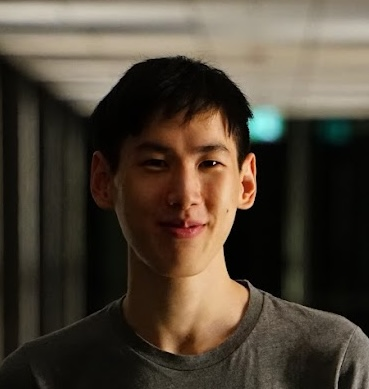
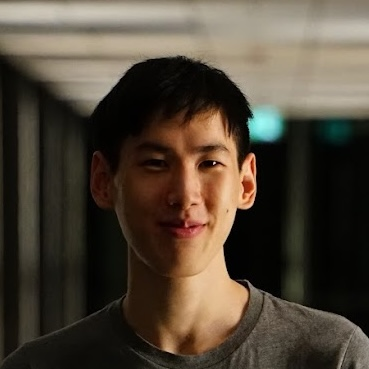
finally fixed the stupid image gap

diff --git a/client/src/pages/Team.tsx b/client/src/pages/Team.tsx
@@ -61,7 +61,7 @@ const Team = () => {
                 <button
                   key={index}
                   onClick={() => setSelectedIndex(index)}
-                  className="group border border-[#FAFAFA]/20 hover:border-[#FAFAFA]/50 transition-colors text-left cursor-pointer overflow-hidden"
+                  className="group flex flex-col  border border-[#FAFAFA]/20 hover:border-[#FAFAFA]/50 transition-colors text-left cursor-pointer overflow-hidden"
                   style={{ background: 'linear-gradient(to top left, rgba(19, 44, 123, 0.25) 0%, rgba(0, 0, 0, 0.98) 100%)' }}
                 >
                   {image ? (
@@ -243,8 +243,8 @@ const Team = () => {
                       key={i}
                       onClick={() => setSelectedIndex(i)}
                       className={`w-1.5 h-1.5 rounded-full transition-colors ${i === selectedIndex
-                          ? "bg-foreground"
-                          : "bg-muted-foreground/30"
+                        ? "bg-foreground"
+                        : "bg-muted-foreground/30"
                         }`}
                     />
                   ))}
